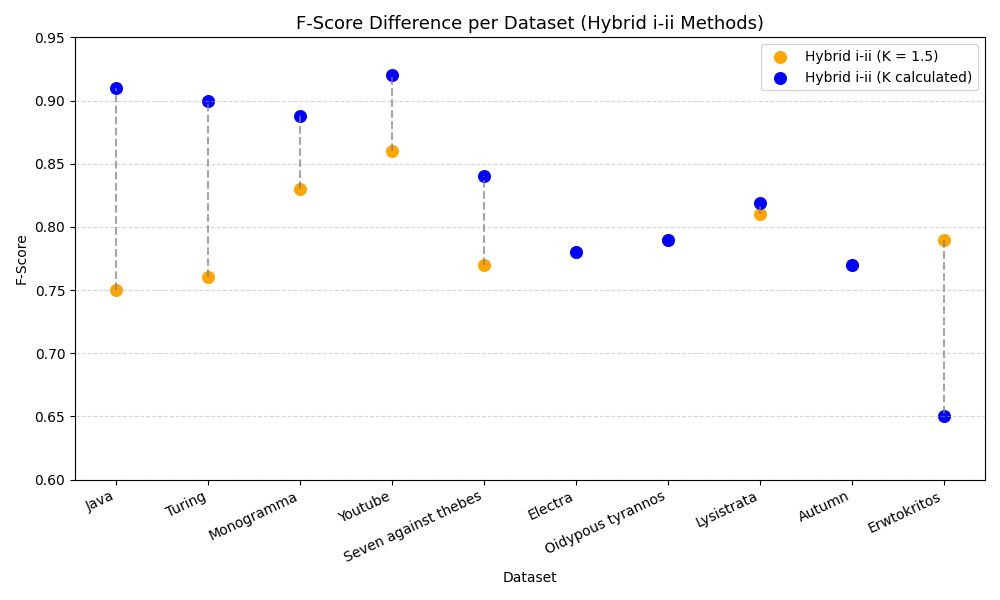
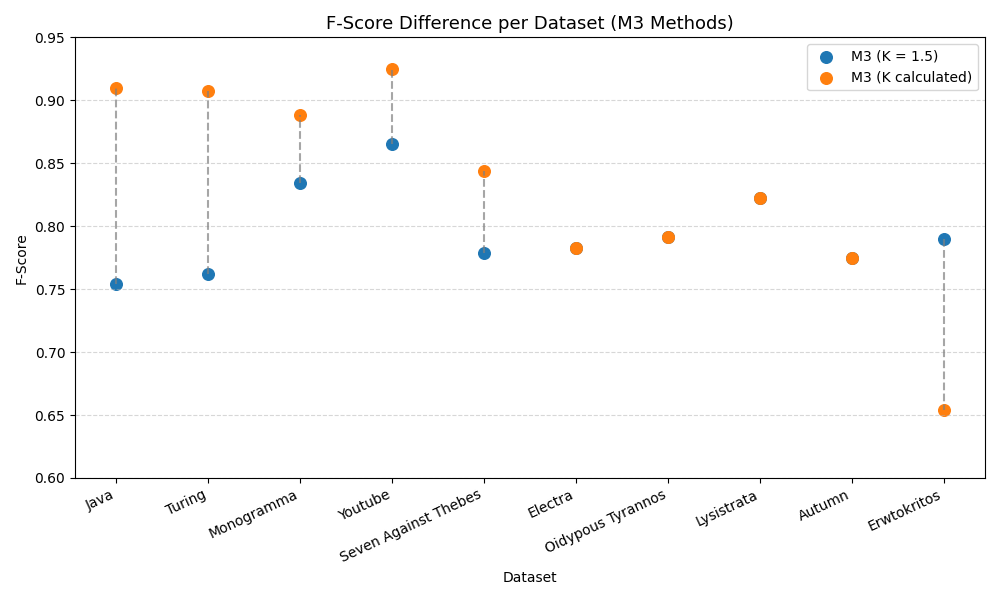
Update scripts

diff --git a/SoundexGR/Scripts/Comparative graph/comparative_plot.py b/SoundexGR/Scripts/Comparative graph/comparative_plot.py
@@ -4,7 +4,7 @@ import numpy as np
 
 df = pd.read_csv("results.csv")
 
-methods = ["M1", "M2", "M3calc", "M3fix", "M4calc", "M4fix"]
+methods = ["M1", "M2", "M3calc", "M3fixed", "M4calc", "M4fixed"]
 colors = ["#1f77b4", "#ff7f0e", "#2ca02c", "#9467bd", "#8c564b", "#e377c2"]
 
 x = np.arange(len(df["Dataset"]))
